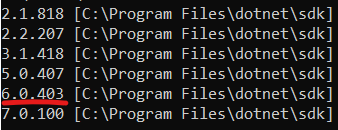
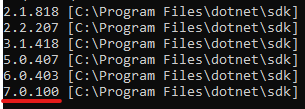
Commit C# Dotnet sample code for Email Object with .NET 7.0

diff --git a/MelissaDataEmailObjectWindowsNETSample/Program.cs b/MelissaDataEmailObjectWindowsNETSample/Program.cs
@@ -50,7 +50,7 @@ namespace MelissaDataEmailObjectWindowsNETSample
 
     static void RunAsConsole(string license, string testEmail, string dataPath)
     {
-      Console.WriteLine("\n\n===== WELCOME TO MELISSA DATA EMAIL OBJECT WINDOWS NET SAMPLE =====\n");
+      Console.WriteLine("\n\n====== WELCOME TO MELISSA DATA EMAIL OBJECT WINDOWS NET SAMPLE =====\n");
 
       EmailObject emailObject = new EmailObject(license, dataPath);
 

diff --git a/README.md b/README.md
@@ -19,7 +19,7 @@ And return
 
 ## Tested Environments
 
-- Windows 64-bit .NET 6.0, .NET 5.0, .NET Core 3.1
+- Windows 64-bit .NET 7.0, .NET 6.0, .NET 5.0, .NET Core 3.1
 - Powershell 5.1
 - Melissa data files for 2022-12
 
@@ -37,28 +37,28 @@ This is the c++ code of the Melissa Data Object.
 ## Getting Started
 These instructions will get you a copy of the project up and running on your local machine for development and testing purposes.
 
-This project is compatible with .NET 6.0, .NET 5.0, and .NET Core 3.1. If you would like to run this project for any other version besides .NET 6.0, proceed with the following procedures but check for and download your desired .NET version.
+This project is compatible with .NET 7.0, .NET 6.0, .NET 5.0, and .NET Core 3.1. If you would like to run this project for any other version besides .NET 7.0, proceed with the following procedures but check for and download your desired .NET version.
 
 #### Install the Dotnet Core SDK
-Before starting, make sure that the .NET 6.0 SDK has been correctly installed on your machine (If you have Visual Studio installed, you most likely have it already). If you are unsure, you can check by opening a command prompt window and typing the following:
+Before starting, make sure that the .NET 7.0 SDK has been correctly installed on your machine (If you have Visual Studio installed, you most likely have it already). If you are unsure, you can check by opening a command prompt window and typing the following:
 
 `dotnet --list-sdks`
 
-If the .NET 6.0 SDK is already installed, you should see it in the following list:
+If the .NET 7.0 SDK is already installed, you should see it in the following list:
 
 ![alt text](/screenshots/dotnet_output.PNG)
 
-As long as the above list contains version `6.0.xxx` (underlined in red), then you can skip to the next step. If your list does not contain version 6.0, or you get any kind of error message, then you will need to download and install the .NET 6.0 SDK from the Microsoft website.
+As long as the above list contains version `7.0.xxx` (underlined in red), then you can skip to the next step. If your list does not contain version 7.0, or you get any kind of error message, then you will need to download and install the .NET 7.0 SDK from the Microsoft website.
 
 To download, follow this link: https://dotnet.microsoft.com/en-us/download/dotnet
 
-Select `.NET 6.0` and you will be navigated to the download page.
+Select `.NET 7.0` and you will be navigated to the download page.
 
 Click and download the `x64` SDK installer for your operating system.
 
 (IMPORTANT: Make sure you download the SDK, NOT the runtime. The SDK contains both the runtime as well as the tools needed to build the project.)
 
-![alt text](/screenshots/net6.png)
+![alt text](/screenshots/net7.png)
 
 Once clicked, your web browser will begin downloading an installer for the SDK. Run the installer and follow all of the prompts to complete the installation (your computer may ask you to restart before you can continue). Once all of that is done, you should be able to verify that the SDK is installed with the `dotnet --list-sdks` command.
 
@@ -104,13 +104,14 @@ Melissa Updater is a CLI application allowing the user to update their Melissa a
 
 Depending on your target .NET framework, you may need to configure the powershell script. In order to do this, open up the `MelissaDataEmailObjectWindowsNETSample.ps1` for editing, proceed to the bottom of the script where you will find this section of code.
 
-Default set for .NET 6.0
+Default set for .NET 7.0
 ```
-dotnet publish -f="net6.0" -c Release -o $BuildPath MelissaDataEmailObjectWindowsNETSample\MelissaDataEmailObjectWindowsNETSample.csproj
+dotnet publish -f="net7.0" -c Release -o $BuildPath MelissaDataEmailObjectWindowsNETSample\MelissaDataEmailObjectWindowsNETSample.csproj
+#dotnet publish -f="net6.0" -c Release -o $BuildPath MelissaDataEmailObjectWindowsNETSample\MelissaDataEmailObjectWindowsNETSample.csproj
 #dotnet publish -f="net5.0" -c Release -o $BuildPath MelissaDataEmailObjectWindowsNETSample\MelissaDataEmailObjectWindowsNETSample.csproj
 #dotnet publish -f="netcoreapp3.1" -c Release -o $BuildPath MelissaDataEmailObjectWindowsNETSample\MelissaDataEmailObjectWindowsNETSample.csproj
 ```
-The target framework is specified with the -f flag found in the command line. If you wish to use any version besides .NET 6.0, please uncomment the line containing that framework and comment out the line containing the .NET 6.0 framework (# to comment).
+The target framework is specified with the -f flag found in the command line. If you wish to use any version besides .NET 7.0, please uncomment the line containing that framework and comment out the line containing the .NET 7.0 framework (# to comment).
 
 ## Run Powershell Script
 
